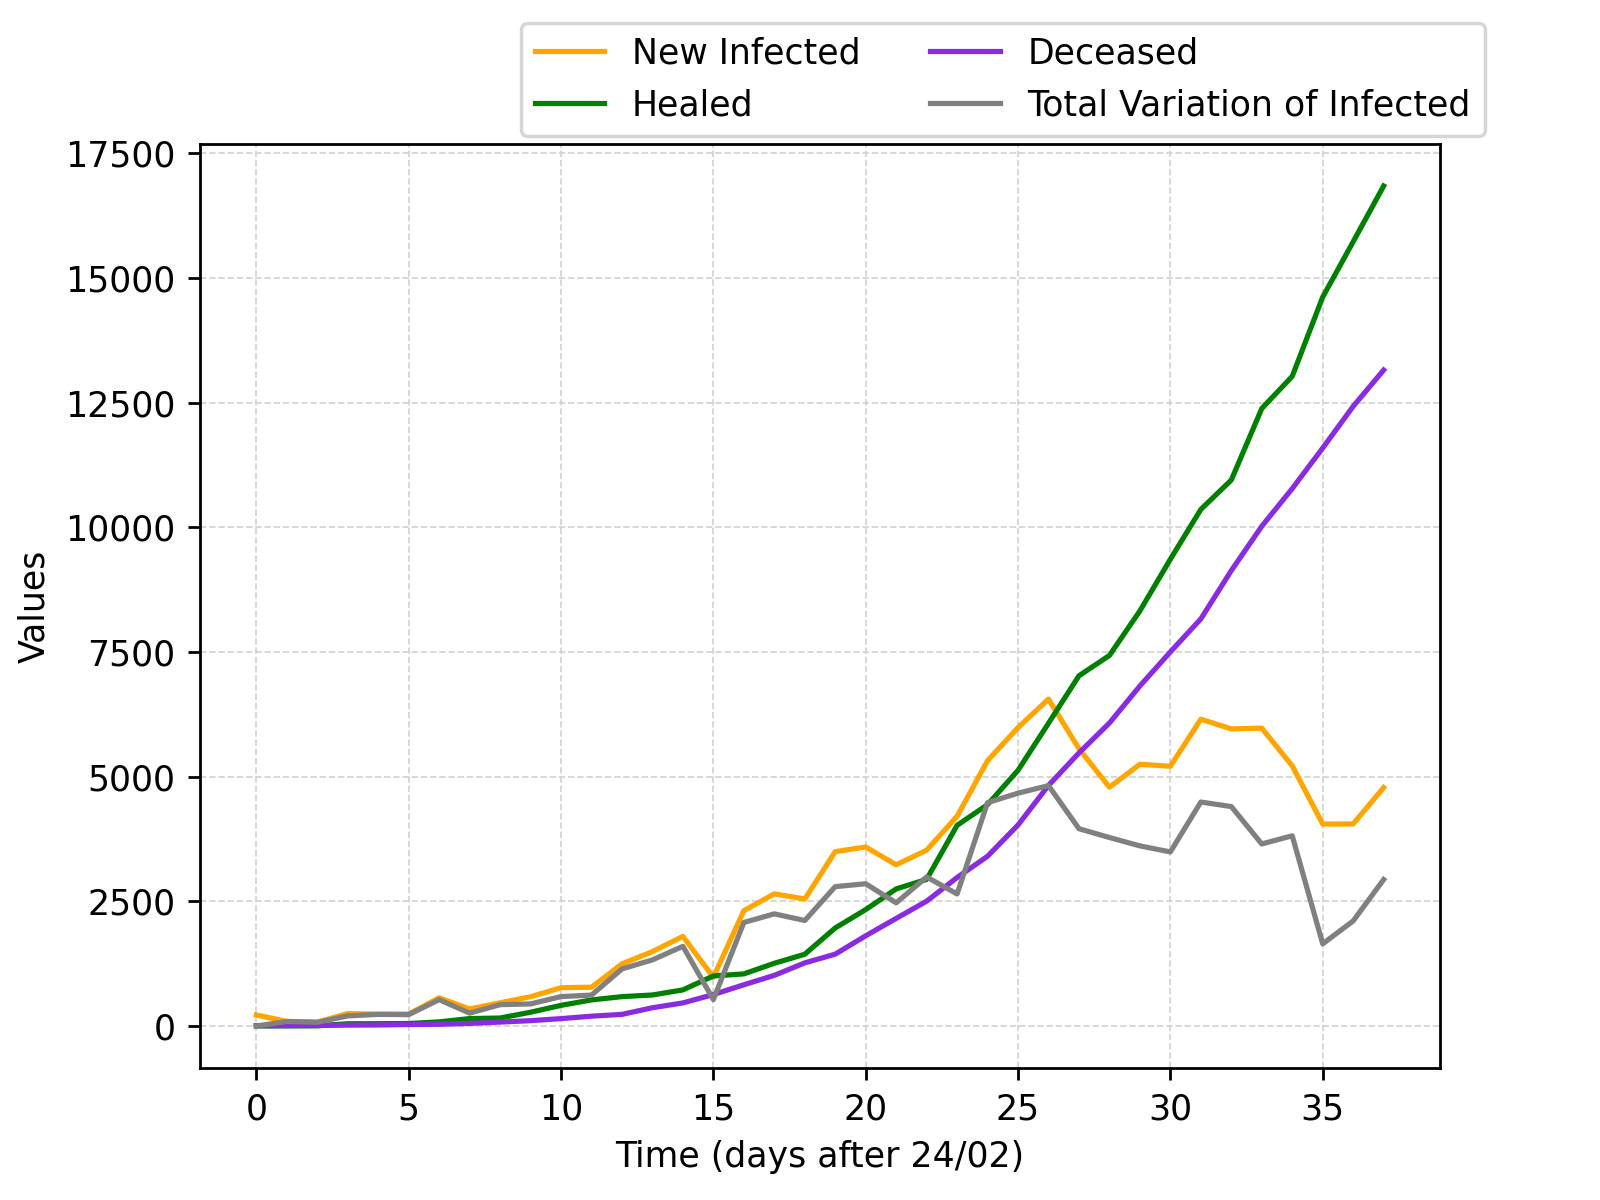
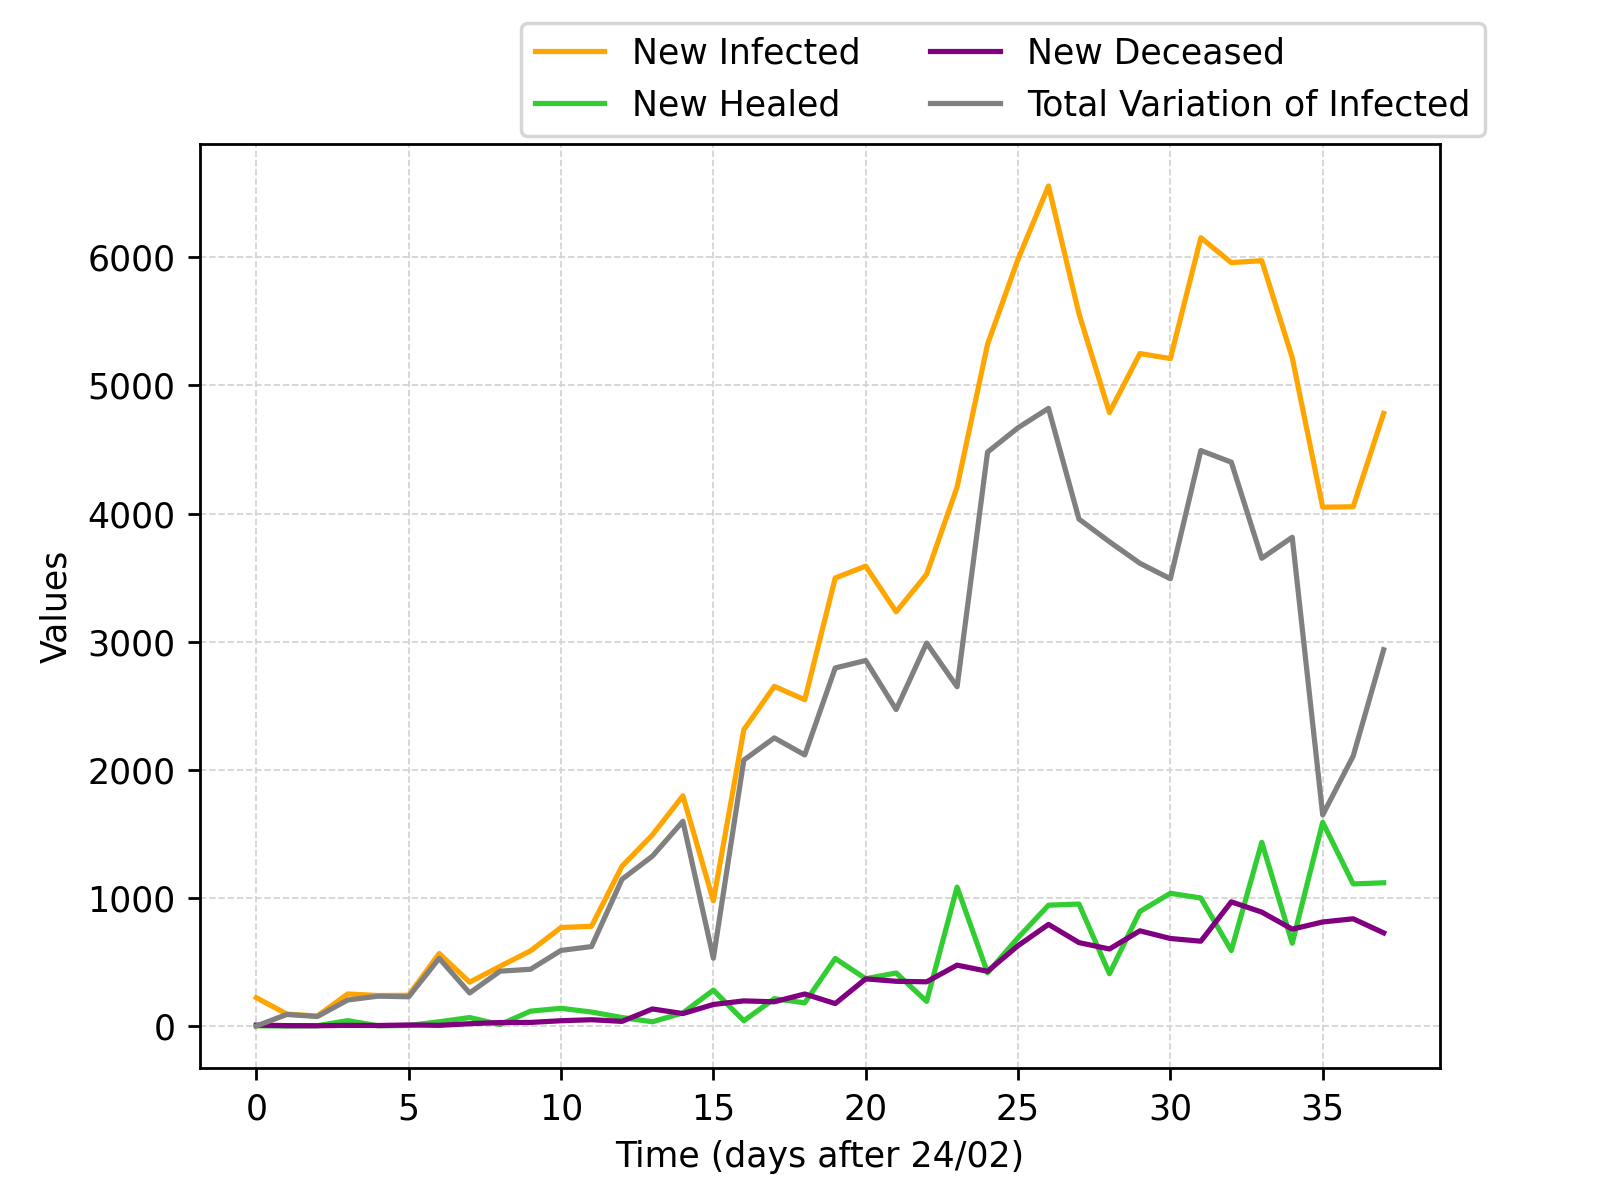
add daily deceased and healed to national

diff --git a/national.py b/national.py
@@ -94,14 +94,55 @@ plt.clf()
 
 ################################################################################################################################
 
+new_healed = []
+new_deceased = []
+
+for i in range(len(dataset)):
+    if(i < 1):
+        new_healed.append(
+        dataset['dimessi_guariti'].iloc[i]
+        )
+        new_deceased.append(
+        dataset['deceduti'].iloc[i]
+        )
+    else:
+        #otherwise calculate daily healed and deceased
+        new_healed.append(
+        dataset['dimessi_guariti'].iloc[i]-dataset['dimessi_guariti'].iloc[i-1]
+        )
+        new_deceased.append(
+        dataset['deceduti'].iloc[i]-dataset['deceduti'].iloc[i-1]
+        )
+
+
+print('\nBILANCIO DI IERI')
+print('NUOVI POSITIVI')
+print(dataset['nuovi_positivi'].iloc[-2])
+print('NUOVI GUARITI')
+print(new_healed[-2])
+print('NUOVI DECEDUTI')
+print(new_healed[-2])
+print('VARIAZIONE TOTALE POSITIVI')
+print(dataset['variazione_totale_positivi'].iloc[-2])
+
+print('\nBILANCIO DI OGGI')
+print('NUOVI POSITIVI')
+print(dataset['nuovi_positivi'].iloc[-1])
+print('NUOVI GUARITI')
+print(new_healed[-1])
+print('NUOVI DECEDUTI')
+print(new_healed[-1])
+print('VARIAZIONE TOTALE POSITIVI')
+print(dataset['variazione_totale_positivi'].iloc[-1])
+
 # new positives, healed, deceased
 plt.xlabel('Time (days after 24/02)')
 plt.ylabel('Values')
 plt.plot(days, dataset['nuovi_positivi'], c='orange', linestyle='-')
-plt.plot(days, dataset['dimessi_guariti'], c='green', linestyle='-')
-plt.plot(days, dataset['deceduti'], c='blueviolet', linestyle='-')
+plt.plot(days, new_healed, c='limegreen', linestyle='-')
+plt.plot(days, new_deceased, c='purple', linestyle='-')
 plt.plot(days, dataset['variazione_totale_positivi'], c='grey',  linestyle='-')
-plt.legend(('New Infected','Healed','Deceased', 'Total Variation of Infected'),loc='upper right', bbox_to_anchor=(1.05, 1.15), ncol=2)
+plt.legend(('New Infected','New Healed','New Deceased', 'Total Variation of Infected'),loc='upper right', bbox_to_anchor=(1.05, 1.15), ncol=2)
 plt.grid(color='lightgray', linestyle='--', linewidth=0.5)
 plt.savefig('./curves/curves-almost.png', dpi = 250)
 plt.clf()
